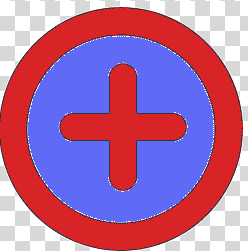
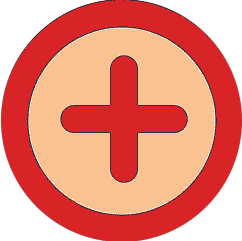
add and edit plus and minus images

diff --git a/src/pages/Settings.js b/src/pages/Settings.js
@@ -83,18 +83,12 @@ constructor(props) {
     
 
           <img
-            className="minusImg"
-            style={{
-              width: "5%",
-                            }}
-            src={Minus}
+            id="minusImgTT"
+                    src={Minus}
             alt="minus symbol"
           />
           
-       
-
-     
-    
+                
         <div className="innerTimerCells">
       <input type="number" className="inputCell" value={this.state.trainingTimeMinutes} onChange={this.setTrainingTimeMinutes} /> 
       <div className="semicolon">:</div> 
@@ -102,17 +96,11 @@ constructor(props) {
         </div>
         
         <img
-            className="plusImg"
-            style={{
-              width: "5%",
-                            }}
-            src={Plus}
+            id="plusImgTT"
+                      src={Plus}
             alt="plus symbol"
           />
         
-
-
-
         </div> 
       <br/>
             

diff --git a/src/App.css b/src/App.css
@@ -36,7 +36,7 @@ label {
 }
 
 .inputCell {
-	width: 30%;
+	width: 100px;
 	height: 80px;
 	font-size: 70px;
 	color: rgb(90, 2, 2);
@@ -49,7 +49,7 @@ label {
 
 .timerCells {
 	display: grid;
-	grid-template-columns: 10% 80% 10%;
+	grid-template-columns: 15% 70% 15%;
 }
 
 .innerTimerCells {
@@ -101,4 +101,21 @@ label {
 	margin-top: 10px;
 	height: 5px;
 	color: moccasin;
+}
+
+#plusImgTT {
+	display: flex;
+	justify-content: center;
+	align-items: center;
+	align-content: center;
+	width: 40px;
+}
+
+#minusImgTT {
+	display: block;
+	/* justify-content: center;
+	align-items: center;
+	align-content: center; */
+	width: 40px;
+	float: right;
 }
